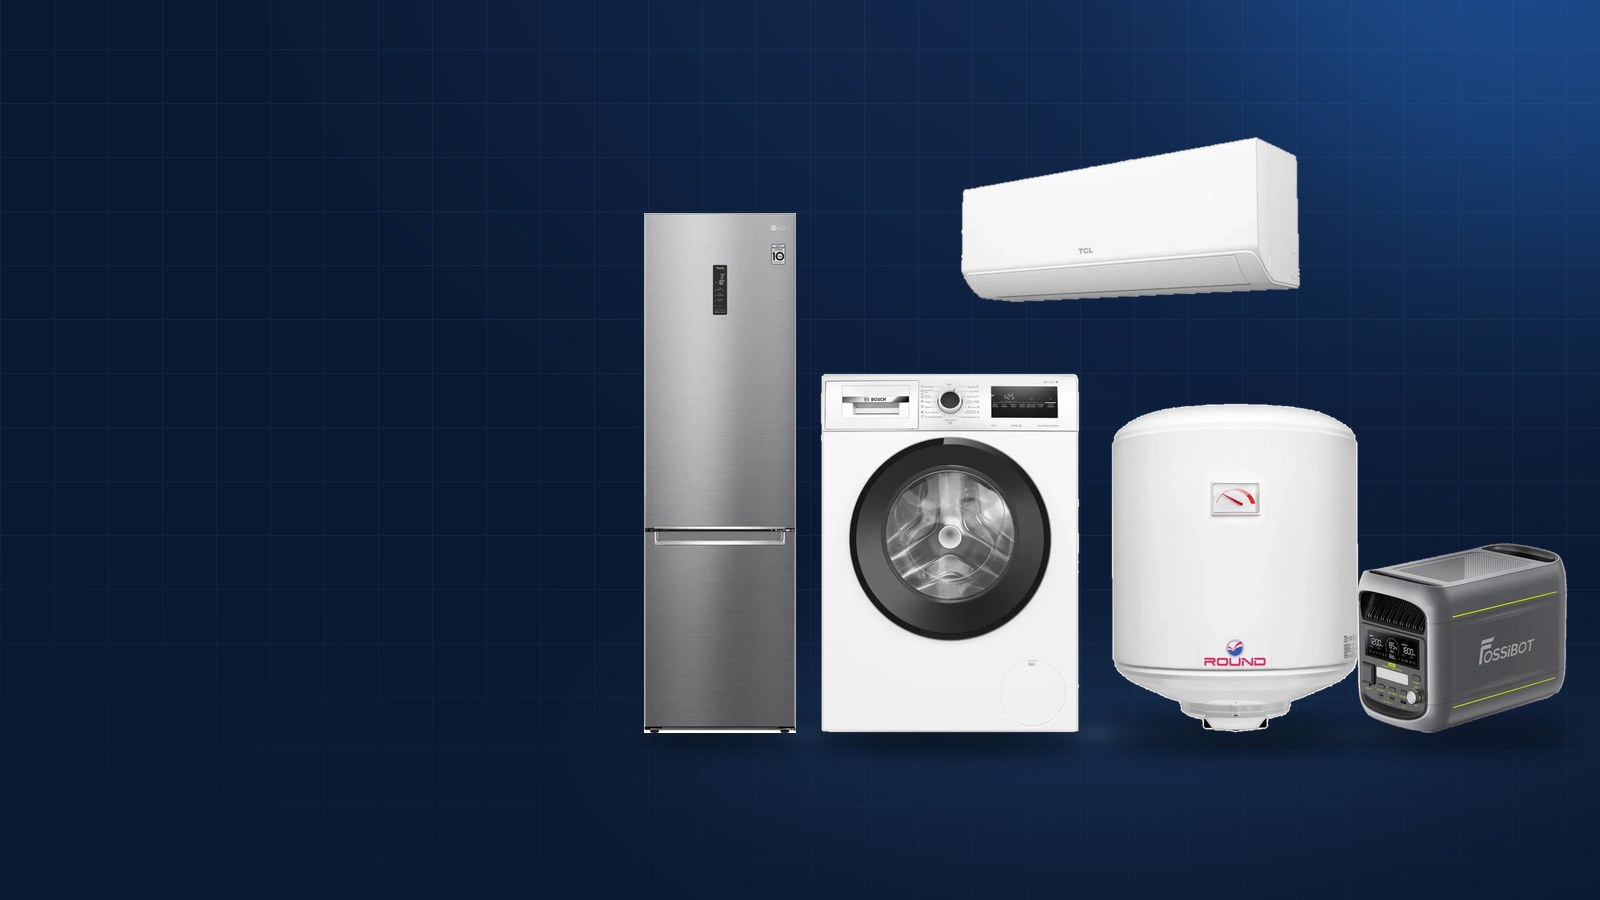
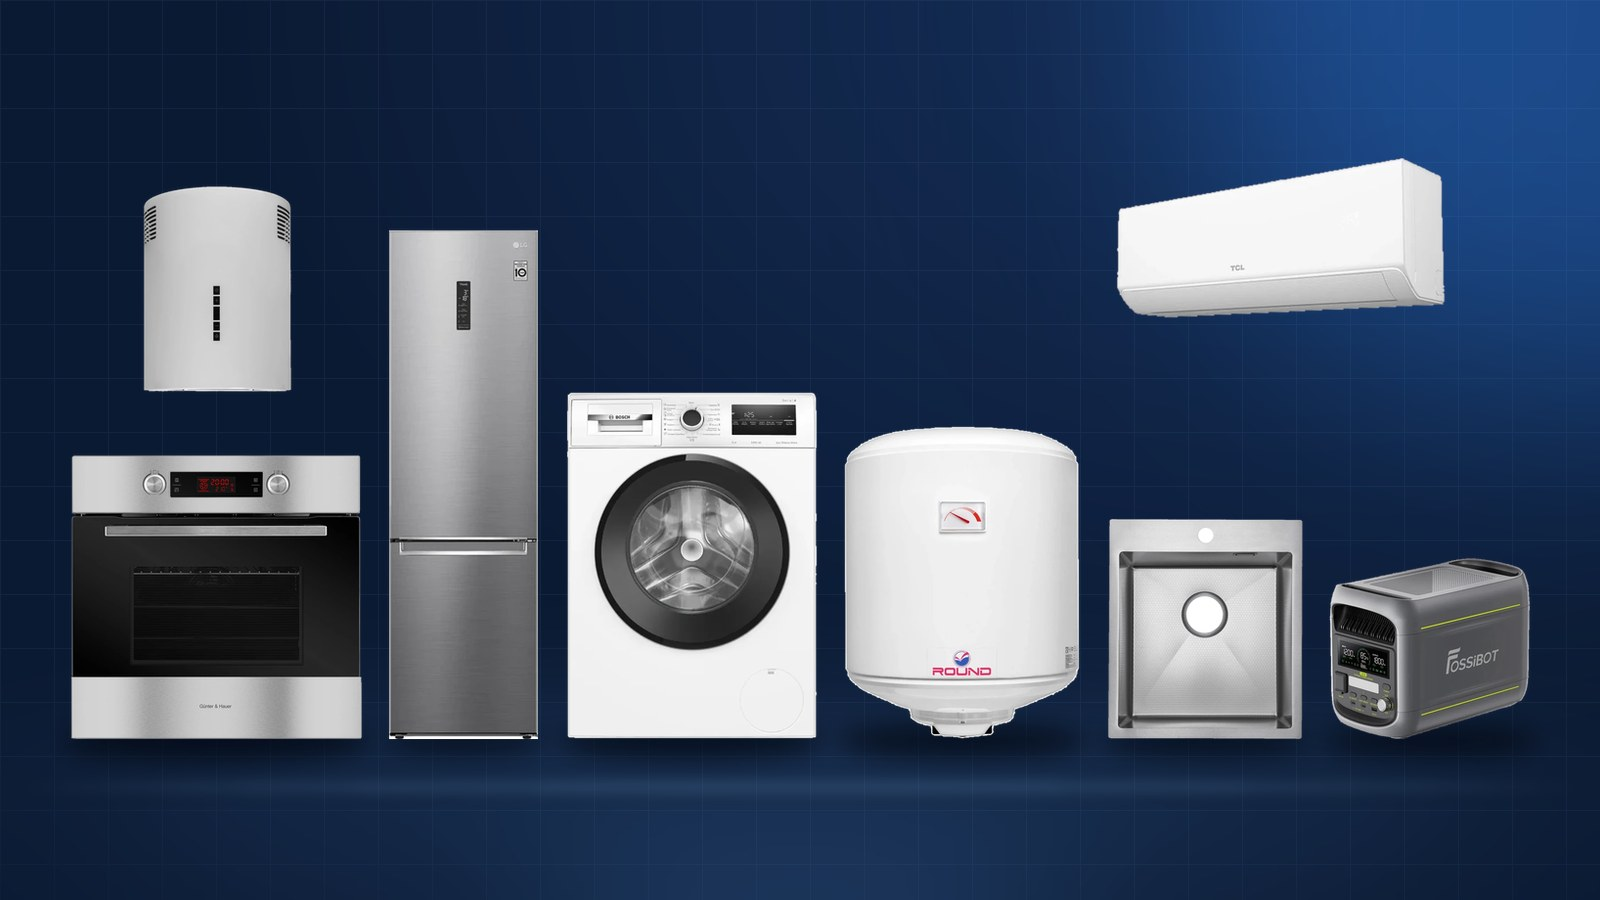
Картка для пересилки показує те, що магазин продає сьогодні
Скріншот із Telegram: «Холодильники · пральні машини · кондиціонери
· бойлери · зарядні станції» — рівно те, чим магазин був до кухні.
Картка не оновлювалась відтоді.

Тепер на ній два рядки категорій замість одного — побутова техніка
й кухонна. Тринадцять категорій в один рядок стискаються до розміру,
якого ніхто не читає на прев'ю в месенджері; поділ по кімнатах
залишає обидва рядки читабельними, і сам поділ і є повідомленням.

Строй товарів перемальовано: до п'яти, з якими магазин відкривався,
стали духова шафа з витяжкою над нею й мийка. Вибрані за силуетом,
не за ціною: у розмірі прев'ю посудомийка — це пральна машина, а
чорна духовка на темно-синьому — це діра.

Три форми для Google більше не вирізаються з одного полотна, а
вписуються кожна у свою: у 1490px строю квадратне вікно 1067px
розрізало духовку й кондиціонер навпіл посередині.

І головне, чого не було видно зі скріншота: 142 товари — уся кухня —
не мали картки взагалі. Посилання на мийку пересилалось без
картинки, бо og:image вказував у 404. Згенеровано всі.

Дрібниця дорогою: og:image:width/height/alt. Без розмірів краулер
іде по файл удруге, просто щоб його виміряти, — через це свіжо
надіслане посилання інколи показується зовсім без картинки.

diff --git a/scripts/make_hero.py b/scripts/make_hero.py
@@ -1,15 +1,19 @@
 # -*- coding: utf-8 -*-
-"""Draws the shop's range — fridge, washing machine, air conditioner, boiler,
-power station — out of the real product cutouts, in two arrangements.
+"""Draws the shop's range out of the real product cutouts, in two arrangements.
+
+The showcase is what a shared link and an image search show, so it has to say
+what the shop sells now: the five appliances it opened with, plus the kitchen —
+a built-in oven with its hood above it, and a sink. Chosen for silhouette, not
+for price: at the size a Telegram card renders them, a dishwasher is a washing
+machine and a black oven on navy is a hole.
 
 The old hero was a stock living room whose only appliance was an air
-conditioner, so Google showed a sofa beside a listing for a shop that sells
-five categories.
+conditioner, so Google showed a sofa beside a listing for an appliance shop.
 
 Two arrangements, because the two jobs pull in opposite directions:
 
   shop-*.jpg  the picture search and social previews use. Tight, bright,
-              everything in frame, cropped to the three shapes Google asks for.
+              everything in frame, fitted to the three shapes Google asks for.
   hero.webp   the homepage background. The headline sits over its left half and
               three frosted cards sit over its right, so here the products keep
               clear of the copy and are dimmed to a suggestion — at full
@@ -34,13 +38,21 @@ WASHER  = 'bosch-wan28281ua'
 BOILER  = 'atlantic-round-vmr-50'
 STATION = 'fossibot-f1800-1800w-1024wh'
 AC      = 'tcl-tac-09chsd-tph21if-inverter-r32-wi-fi'
+OVEN    = 'gunter-hauer-eom-970-ix'                 # steel frame, not the black one
+HOOD    = 'gunter-hauer-margaretka-wh'              # white cylinder — legible at any size
+SINK    = 'gunter-hauer-mindel-4522-inox-honey'
 
 # slug, height, centre x, bottom y  — sizes are compressed rather than true to
 # scale: next to a 185 cm fridge the air conditioner and the power station
 # would shrink to specks.
-SHOWCASE = [(FRIDGE, 520, 720, FLOOR), (WASHER, 360, 950, FLOOR),
-            (BOILER, 330, 1235, FLOOR), (STATION, 190, 1462, FLOOR),
-            (AC, 167, 1130, 470)]
+#
+# Home and kitchen alternate along the row rather than sitting in two blocks,
+# because Google crops this to 1:1 and 4:3 as well as 16:9 and a segregated row
+# loses one half entirely in the square.
+SHOWCASE = [(OVEN, 290, 203, FLOOR), (FRIDGE, 520, 455, FLOOR),
+            (WASHER, 355, 688, FLOOR), (BOILER, 320, 964, FLOOR),
+            (SINK, 225, 1213, FLOOR), (STATION, 185, 1443, FLOOR),
+            (HOOD, 210, 203, 545), (AC, 165, 1290, 470)]
 
 # Shifted right and spread out: at a 1280-wide viewport the hero shows source
 # x 171–1429, and the headline covers everything left of about x 810.
@@ -119,19 +131,59 @@ def canvas(items, strength):
     img.alpha_composite(products(items, strength))
     return img
 
+def backdrop(cw, ch):
+    """Gradient, lattice and glow at the requested shape.
+
+    Cropped to the aspect and then resized, never squeezed: the lattice is
+    square in the CSS this copies, and a stretched one reads as a fault.
+    Anchored to the top right, which is where the glow lives."""
+    bg = gradient(); grid(bg); glow(bg)
+    sc = max(cw / W, ch / H)
+    bw, bh = cw / sc, ch / sc
+    return bg.convert('RGB').crop((round(W - bw), 0, W, round(bh))).resize((cw, ch), Image.LANCZOS)
+
+
+def place(bg, art, wide=.96, tall=.70, drop=.58):
+    """Stand the line-up on the card, whole.
+
+    The three shapes used to be crops of one 1600x1067 canvas, which worked
+    while the row was five appliances wide. At eight it is ~1490px across,
+    wider than the square's 1067px window, so the square cut the oven and the
+    air conditioner in half down the middle. Fitting the group to each shape
+    costs a little size and cuts nothing."""
+    cw, ch = bg.size
+    sc = min(cw * wide / art.width, ch * tall / art.height)
+    a = art.resize((max(1, round(art.width * sc)), max(1, round(art.height * sc))), Image.LANCZOS)
+    # Vertically it sits a little below centre — the row is 2.5:1 and the square
+    # frame is 1:1, so wherever it goes there is empty ground; below centre it
+    # reads as standing on something rather than floating.
+    x, y = (cw - a.width) // 2, round((ch - a.height) * drop)
+    # the floor they stand on: a dark surface cannot be seen against dark navy,
+    # so light stands in for it, exactly as products() does at full size
+    lay = Image.new('RGBA', (cw, ch), (0, 0, 0, 0))
+    ImageDraw.Draw(lay).ellipse([x - 70 * sc, y + a.height - 120 * sc,
+                                 x + a.width + 70 * sc, y + a.height + 120 * sc],
+                                fill=(96, 168, 255, 46))
+    lay = lay.filter(ImageFilter.GaussianBlur(90 * sc))
+    seam = Image.new('RGBA', (cw, ch), (0, 0, 0, 0))
+    ImageDraw.Draw(seam).ellipse([x - 30 * sc, y + a.height - 9 * sc,
+                                  x + a.width + 30 * sc, y + a.height + 9 * sc],
+                                 fill=(150, 205, 255, 60))
+    lay.alpha_composite(seam.filter(ImageFilter.GaussianBlur(max(1., 9 * sc))))
+    out = bg.convert('RGBA')
+    out.alpha_composite(lay)
+    out.alpha_composite(a, (x, y))
+    return out.convert('RGB')
+
+
 def main():
     # --- what search and social show ------------------------------------
-    shop = canvas(SHOWCASE, 1.0).convert('RGB')
-    GROUP = 1075
+    art = lineup()
     for name, (cw, ch) in {'shop-16x9': (1600, 900), 'shop-4x3': (1280, 960),
                            'shop-1x1': (1040, 1040)}.items():
-        sc = max(cw / W, ch / H)
-        bw, bh = cw / sc, ch / sc
-        l = min(max(GROUP - bw / 2, 0), W - bw)
-        t = min(max(FLOOR - bh * .62, 0), H - bh)
-        shop.crop((round(l), round(t), round(l + bw), round(t + bh))) \
-            .resize((cw, ch), Image.LANCZOS) \
-            .save(rel('assets', 'img', 'site', '%s.jpg' % name), 'JPEG', quality=88, optimize=True, progressive=True)
+        card = place(backdrop(cw, ch), art)
+        card.save(rel('assets', 'img', 'site', '%s.jpg' % name), 'JPEG',
+                  quality=88, optimize=True, progressive=True)
         print('assets/img/site/%s.jpg  %dx%d' % (name, cw, ch))
 
     # --- the homepage backdrop -------------------------------------------

diff --git a/scripts/gen_images.py b/scripts/gen_images.py
@@ -63,15 +63,24 @@ def fitted(d, text, size, maxw, bold=False):
 
 # One card per language: the Ukrainian one used to be served on the Russian and
 # English pages too, so a shared link previewed in the wrong language.
+#
+# Two category lines, not one. Thirteen categories on a single line get fitted
+# down to something nobody reads at the size Telegram renders a card; split by
+# room, the home line and the kitchen line each stay legible — and the split
+# itself is the message, because the shop was five categories when this card
+# was last written and the preview still said so.
 OG_TEXT = {
-    "uk": ("Побутова техніка у Сумах",
+    "uk": ("Побутова та кухонна техніка у Сумах",
            "Холодильники · пральні машини · кондиціонери · бойлери · зарядні станції",
+           "Мийки · змішувачі · витяжки · варильні поверхні · духові шафи · посудомийні",
            "Доставка та монтаж по Сумах · оплата після встановлення"),
-    "ru": ("Бытовая техника в Сумах",
+    "ru": ("Бытовая и кухонная техника в Сумах",
            "Холодильники · стиральные машины · кондиционеры · бойлеры · зарядные станции",
+           "Мойки · смесители · вытяжки · варочные поверхности · духовые шкафы · посудомоечные",
            "Доставка и монтаж по Сумам · оплата после установки"),
-    "en": ("Home appliances in Sumy",
+    "en": ("Home and kitchen appliances in Sumy",
            "Fridges · washing machines · air conditioners · water heaters · power stations",
+           "Sinks · taps · hoods · hobs · ovens · dishwashers · microwaves",
            "Delivery and installation in Sumy · pay after setup"),
 }
 
@@ -80,17 +89,19 @@ def default_og(lang="uk"):
     categories; the strip along the bottom shows them, using the same line-up
     scripts/make_hero.py also builds for search."""
     im = og_bg(); d = ImageDraw.Draw(im)
-    tagline, cats, serv = OG_TEXT[lang]
-    d.text((80, 70), "TEXNO PLAZA", font=font(86), fill=WHITE)
-    d.text((84, 178), tagline, font=fitted(d, tagline, 48, 1032), fill=FROST)
-    # five categories overrun 1200px at the old fixed 32pt, so the line is fitted
-    d.text((84, 250), cats, font=fitted(d, cats, 30, 1032), fill=(210, 225, 245))
-    d.text((84, 296), serv, font=fitted(d, serv, 28, 1032), fill=(150, 180, 220))
+    tagline, home, kitchen, serv = OG_TEXT[lang]
+    d.text((80, 44), "TEXNO PLAZA", font=font(70), fill=WHITE)
+    d.text((84, 126), tagline, font=fitted(d, tagline, 44, 1032), fill=FROST)
+    # a category line overruns 1200px well before it runs out of categories,
+    # so both are fitted rather than trusted to a fixed size
+    d.text((84, 186), home, font=fitted(d, home, 26, 1032), fill=(210, 225, 245))
+    d.text((84, 220), kitchen, font=fitted(d, kitchen, 26, 1032), fill=(210, 225, 245))
+    d.text((84, 260), serv, font=fitted(d, serv, 24, 1032), fill=(150, 180, 220))
 
     art = make_hero.lineup()
-    h = 268
+    h = 304
     art = art.resize((max(1, round(h * art.width / art.height)), h), Image.LANCZOS)
-    im.paste(art, ((1200 - art.width) // 2, 630 - h - 26), art)
+    im.paste(art, ((1200 - art.width) // 2, 630 - h - 24), art)
     im.save(os.path.join(OG, "default.jpg" if lang == "uk" else "default-%s.jpg" % lang), quality=86)
 
 # What the shop actually promises for this kind of product. A washing machine
